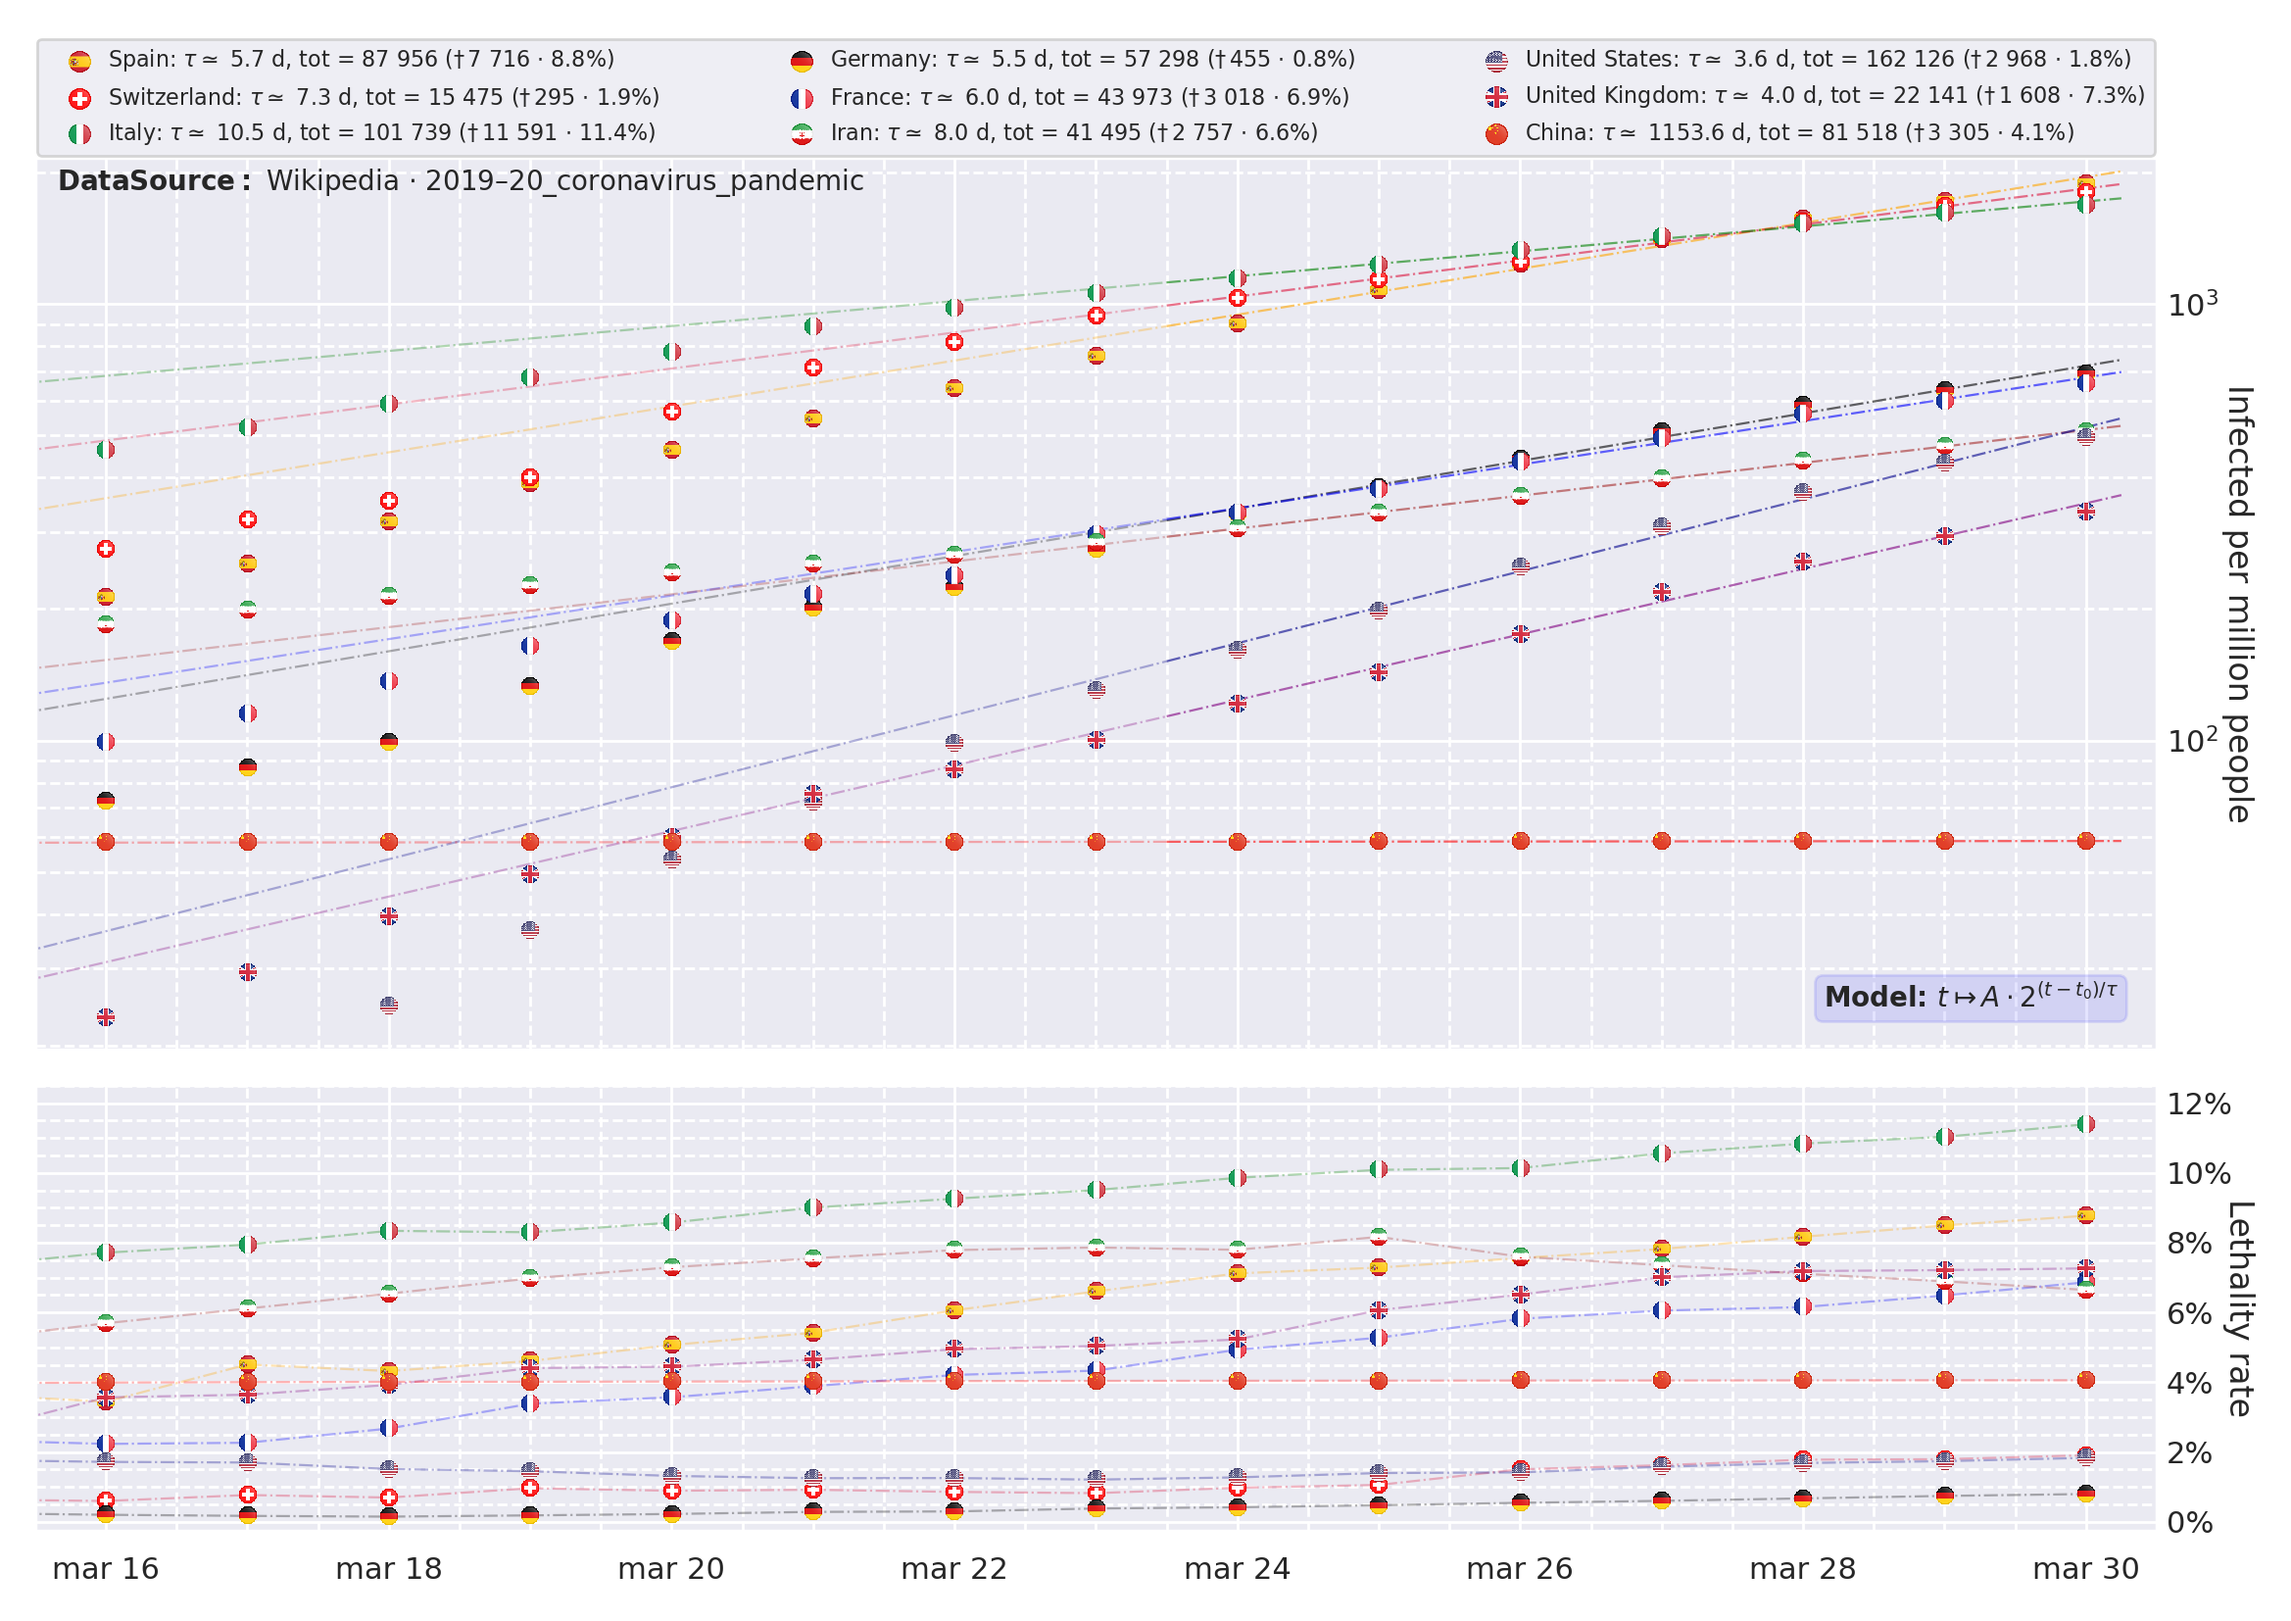
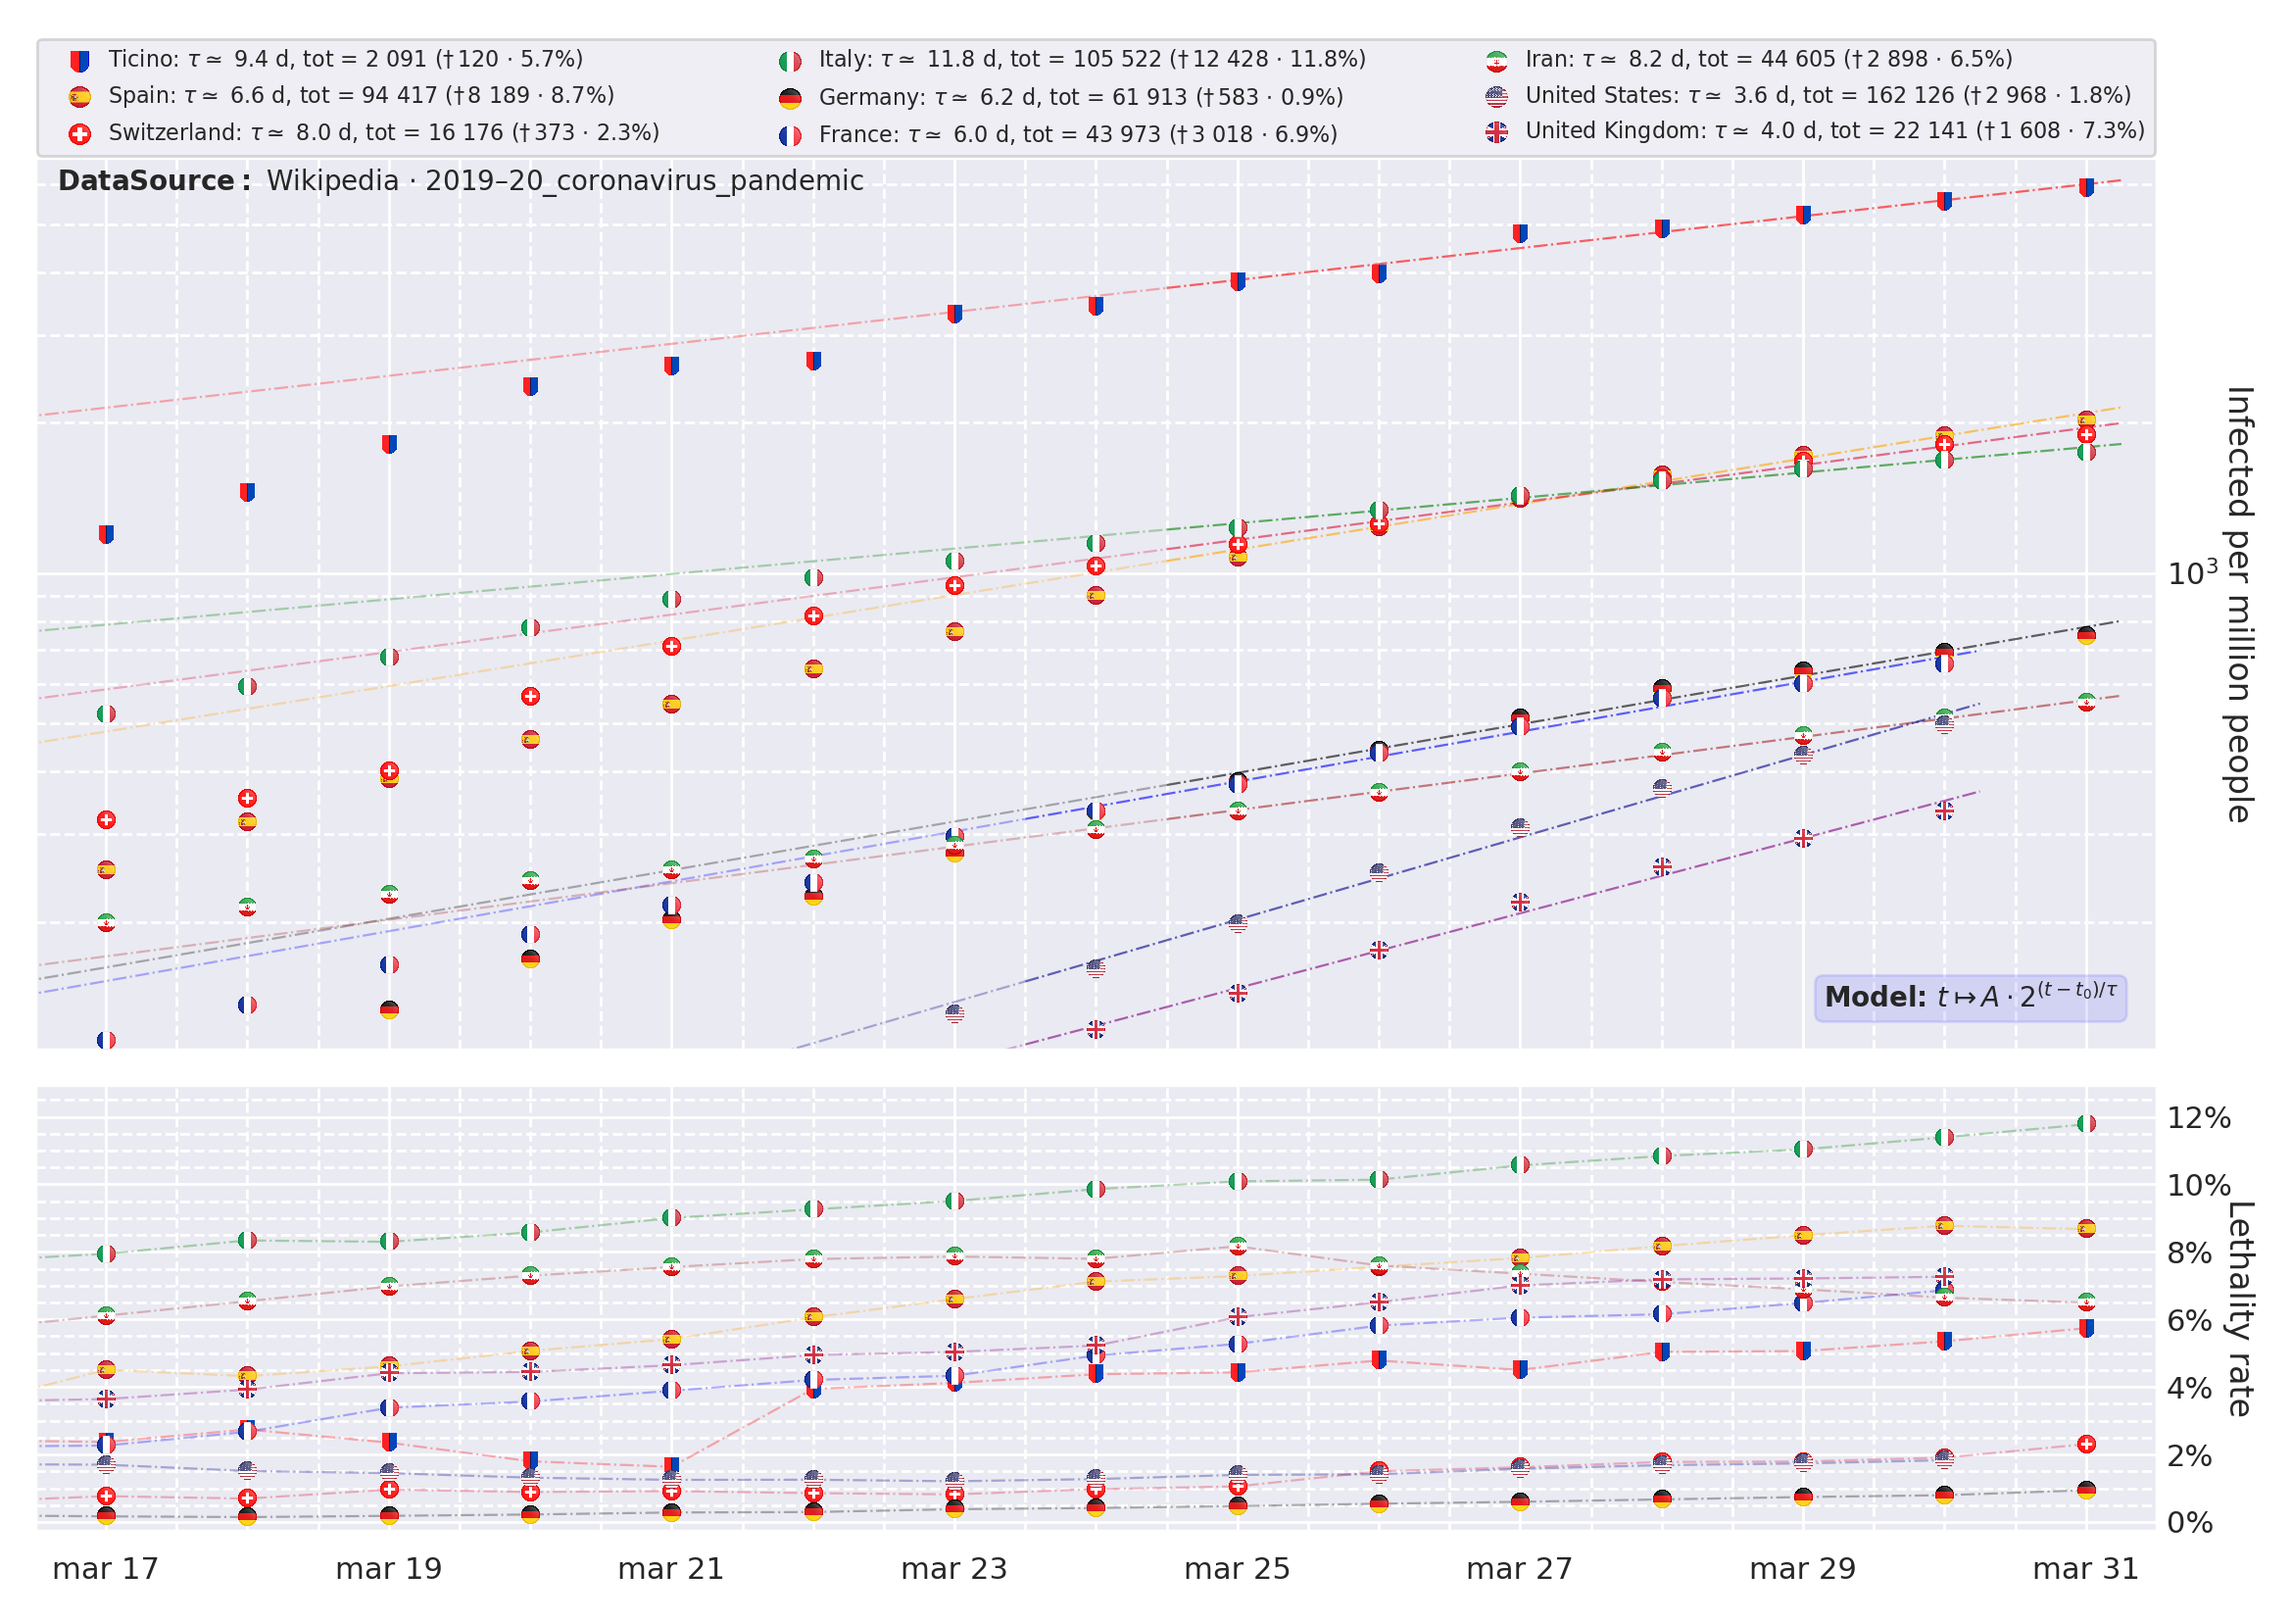
minor commit

diff --git a/Coronavirus/coronavirus.py b/Coronavirus/coronavirus.py
@@ -21,22 +21,22 @@ country_ds = pd.DataFrame(
              "last_update"]
 )
 country_ds["name"] = [
-    "United Kingdom", "Iran", "Italy", "Germany", "France", "China", "Spain",
+    "United Kingdom", "Iran", "Italy", "Germany", "France", "Ticino", "Spain",
     "Switzerland", "United States"
 ]
 country_ds["population"] = [
-    66.44, 81.16, 60.48, 82.79, 66.99, 1386, 46.66, 8.57, 327.2
+    66.44, 81.16, 60.48, 82.79, 66.99, 0.3537, 46.66, 8.57, 327.2
 ]
 country_ds["filename"] = [
     "UnitedKingdom.dat", "Iran.dat", "Italy.dat", "Germany.dat", "France.dat",
-    "China.dat", "Spain.dat", "Switzerland.dat", "UnitedStates.dat"
+    "Ticino.dat", "Spain.dat", "Switzerland.dat", "UnitedStates.dat"
 ]
 country_ds["flagname"] = [
     "gb.png", "ir.png", "it.png", "de.png", "fr.png",
-    "cn.png", "es.png", "ch.png", "us.png"
+    "ti.png", "es.png", "ch.png", "us.png"
 ]
 country_ds["date_format"] = [
-    "%Y-%m-%d", None, "%d-%m-%Y", "%d.%m.%Y", "%d.%m.%Y", None, "%Y-%m-%d",
+    "%Y-%m-%d", None, "%d-%m-%Y", "%d.%m.%Y", "%d.%m.%Y", "%Y-%m-%d", "%Y-%m-%d",
     "%Y-%m-%d", "%b %d %Y"
 ]
 country_ds["color"] = [
@@ -126,9 +126,9 @@ for idx, name in enumerate(country_ds.index):
         plots.append(plot[0])
         handlers[plot[0]] = custom_handler
         plot_images(t[-15:], df["density"].values[-15:],
-                    "flags/" + flagname, scale=2.6, ax=ax1)
+                    "flags/" + flagname, scale=2.7, ax=ax1)
         plot_images(t[-15:], df["lethality"].values[-15:],
-                    "flags/" + flagname, scale=2.6, ax=ax2)
+                    "flags/" + flagname, scale=2.7, ax=ax2)
 
     df["death"].fillna(0, inplace=True)
     ax2.plot(df.index, df["lethality"].values, ".",

diff --git a/Coronavirus/corona_libs.py b/Coronavirus/corona_libs.py
@@ -19,7 +19,7 @@ def plot_images(x, y, flagname, scale=4, xshift=0, ax=None):
     image = plt.imread(flagname)
     img = []
     for i in range(image.shape[-1]):
-        img.append(np.pad(image[:, :, i], ((10, 10), (10, 10))))
+        img.append(np.pad(image[:, :, i], ((12, 12), (12, 12))))
     image = np.swapaxes(np.swapaxes(np.array(img), 0, 1), 1, 2)
 
     for xi, yi in zip(x, y):
